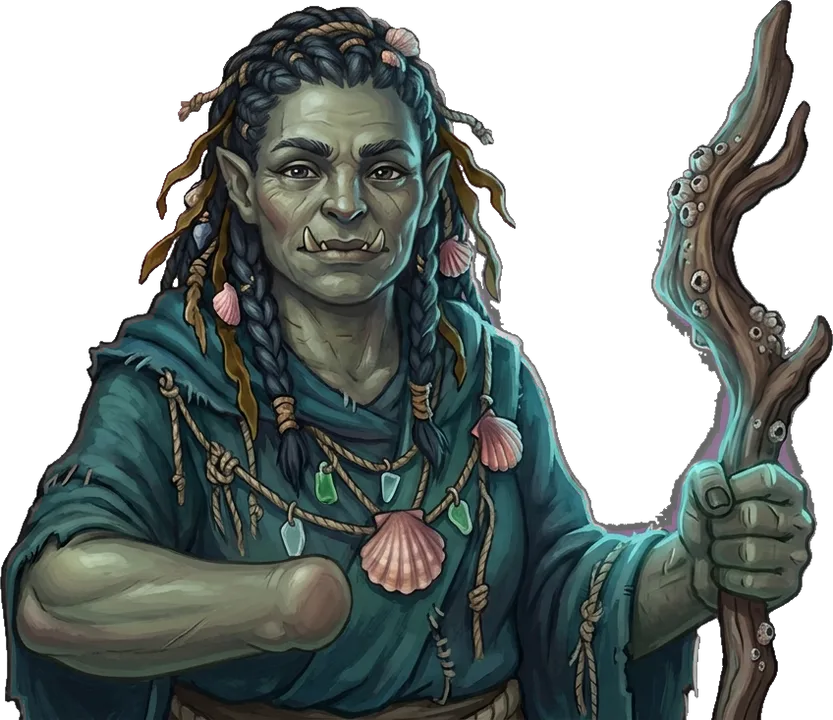
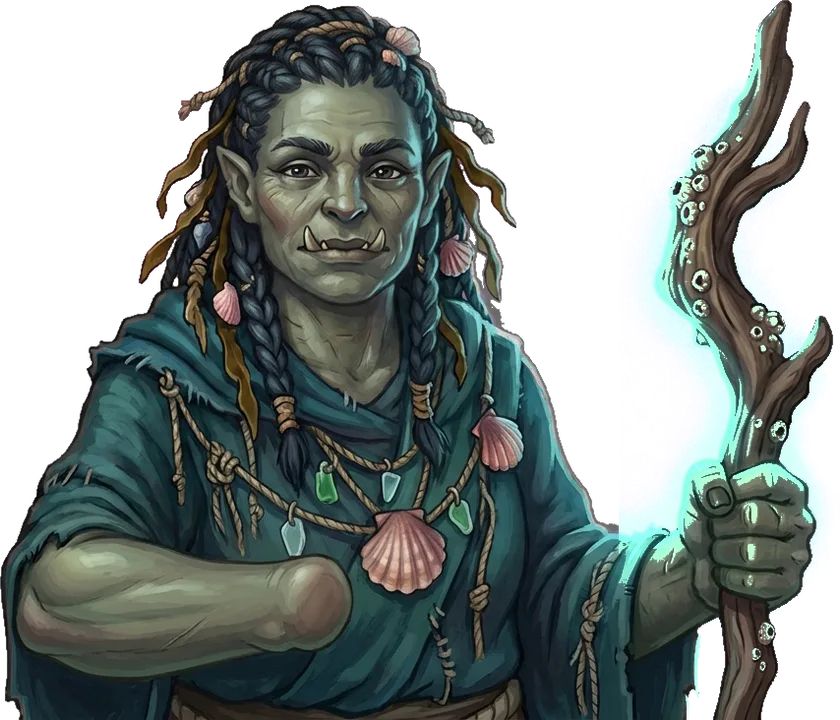
The Salty Swallow: Johnny ashore, every ability counted, Jaguar's choice, Yvesil re-cut
Johnny Elf Bar is no longer a spot aboard. The nameplate's marks count every
ability: the Hangman 2, Jaguar 4 (Smooth Talk twice, the Cloak, All In). Smooth
Talk takes a Healing only when Jaguar is hurt; with only Healing on the shelf
and his hearts full he takes 3 off your hand instead. Yvesil's staff glow is
cut soft and see-through, and on phones she stands bigger with her speech
bubble above her head. Tests for each.

diff --git a/server.js b/server.js
@@ -448,7 +448,7 @@ const PLACES = {
     saltySwallow: {
         name: 'The Salty Swallow',
         thomStock: ['healing', 'lastGasp', 'fizzy', 'secondThoughts', 'steady', 'clearEye'],
-        spots: ['thom', 'shrine', 'elfKid', 'jorvash', 'yvesil'], // (Thom stows away, 6 Nov)
+        spots: ['thom', 'shrine', 'jorvash', 'yvesil'], // (Thom stows away, 6 Nov; Johnny Elf Bar stays ashore, 9 Nov)
         events: []
     }
 };
@@ -675,7 +675,9 @@ function getTavernRunState(room) {
         tubSurge: room.tavernRun.tubSurge ? { id: room.tavernRun.tubSurge, die: HOT_TUB_DIE, ...HOT_TUB_SURGES[room.tavernRun.tubSurge] } : null,
         nextSurge: room.tavernRun.nextFightSurge || null,
         abilityUsed: room.tavernRun.abilityUsed,
-        abilityMax: seated.ability ? BALANCE.abilityUses[seated.ability] : 0, // uses a fight (the seated opponent's)
+        // Uses a fight of every ability the seated opponent has, and how many are spent (the ✦ on
+        // the nameplate; 9 Nov, the user's: the Hangman's Ace and Jaguar's Cloak and All In count too).
+        ...abilityMarks(room, seated),
         jaguarPhase: room.tavernRun.jaguarPhase || null, // Jaguar's: 'talk', 'cloak' or 'allIn'
         klargHand: room.tavernRun.klargHand || null, // the die Klarg snatched, waiting for his turn
         clearEye: !!room.tavernRun.clearEyeArmed, // a Clear-Eye is waiting for the next ability
@@ -1430,6 +1432,23 @@ function emitKeepsakeActivated(roomCode, room, keepsakeId, text) {
     });
 }
 
+function abilityMarks(room, seated) {
+    let run = room.tavernRun;
+    let max = 0, spent = 0;
+    for (let a of abilitiesOf(seated)) {
+        let uses = BALANCE.abilityUses[a] || 0;
+        max += uses;
+        spent += Math.min(uses, getAbilityUseCount(room, a));
+    }
+    // Jaguar's Cloak and All In: one each, spent as his phase reaches them.
+    if (seated.ability === 'jaguarPhases') {
+        max += 2;
+        let phase = run.jaguarPhase;
+        spent += (phase === 'cloak' || phase === 'allIn' ? 1 : 0) + (phase === 'allIn' ? 1 : 0);
+    }
+    return { abilityMax: max, abilitySpent: spent };
+}
+
 function getAbilityUseCount(room, abilityId) {
     let used = room.tavernRun.abilityUsed[abilityId];
     if (used === true) return 1;
@@ -1877,10 +1896,15 @@ function beginJaguarRound(roomCode, room, encounter) {
     }
     if (!fireTavernAbility(roomCode, room, encounter, 'jaguarPhases')) return;
     let shelf = run.shelf;
-    let id = (bot.lives < encounter.lives && shelf.includes('healing') && 'healing') || (shelf.includes('steady') && 'steady') || shelf.find(t => !THONICS[t].elf); // (not an Elf Bar)
+    // (9 Nov, the user's) Down on hearts, he takes a Healing first; with none, or at full hearts,
+    // whatever else is there (a Steady first). Healing alone on your shelf and his hearts full: he
+    // leaves it, and talks 3 off your hand instead. Never an Elf Bar.
+    let hurt = bot.lives < encounter.lives;
+    let id = (hurt && shelf.includes('healing') && 'healing') || (shelf.includes('steady') && 'steady') || shelf.find(t => !THONICS[t].elf && t !== 'healing');
     if (!id) {
         run.talkThree = true;
-        sendMoment(roomCode, 'signatureMove', { name: encounter.name, ability: Rules.ABILITY_NAMES.jaguarPhases, text: `Your shelf is empty, so he'll talk ${FINAL_SHIP.talkThreeWhenEmpty ?? 3} off your finished hand this round.` });
+        let why = shelf.some(t => !THONICS[t].elf) ? 'He has no need of your Healing' : 'Your shelf is empty';
+        sendMoment(roomCode, 'signatureMove', { name: encounter.name, ability: Rules.ABILITY_NAMES.jaguarPhases, text: `${why}, so he'll talk ${FINAL_SHIP.talkThreeWhenEmpty ?? 3} off your finished hand this round.` });
         return;
     }
     shelf.splice(shelf.indexOf(id), 1);
@@ -3116,4 +3140,4 @@ function start(port = process.env.PORT || 3000) {
 
 if (require.main === module) start();
 
-module.exports = { start, http, io, rooms, emitState, getRoomState, pickSpots, startInterlude, strangerOffer, BARD_SONGS, REFRESHMENTS, OMENS, ELF_BARS, MYSTERY_FLAVOUR, rollFaceFor, sealSave, openSave, beginTavernRound, resetTavernEncounter, invitation, BOSS_DROPS, TAVERN_ENCOUNTERS, TAVERN_KEEPSAKES };
+module.exports = { start, http, io, rooms, emitState, getRoomState, pickSpots, startInterlude, strangerOffer, BARD_SONGS, REFRESHMENTS, OMENS, ELF_BARS, MYSTERY_FLAVOUR, rollFaceFor, sealSave, openSave, beginTavernRound, resetTavernEncounter, invitation, BOSS_DROPS, TAVERN_ENCOUNTERS, TAVERN_KEEPSAKES, PLACES };

diff --git a/test/server.test.js b/test/server.test.js
@@ -372,6 +372,46 @@ test("Jaguar's Smooth Talk drinks a Thonic off your shelf (his Healing heals him
     assert.equal((await scored).players[hero.id].score, 18);
 });
 
+test("Jaguar's Smooth Talk at full hearts leaves your Healing: another Thonic if there is one, else 3 off your hand", async () => {
+    // Healing and Fizzy, his hearts full: he takes the Fizzy.
+    let hero = await tavernAgainst(fightOf('jaguar'), 'JagFullMixed');
+    let room = roomOf(hero);
+    room.players.BOT_MOLAR.lives = 4;
+    room.tavernRun.shelf = ['healing', 'fizzy'];
+    let talk = waitFor(hero, 'signatureMove', m => m.ability === 'Smooth Talk', 4000);
+    server.beginTavernRound(codeOf(hero), room);
+    assert.match((await talk).text, /Fizzy/);
+    assert.deepEqual(room.tavernRun.shelf, ['healing']);
+    // Only Healing, his hearts full: he leaves them and talks 3 off your hand.
+    hero = await tavernAgainst(fightOf('jaguar'), 'JagFullHealing');
+    room = roomOf(hero);
+    room.players.BOT_MOLAR.lives = 4;
+    room.tavernRun.shelf = ['healing', 'healing'];
+    talk = waitFor(hero, 'signatureMove', m => m.ability === 'Smooth Talk', 4000);
+    server.beginTavernRound(codeOf(hero), room);
+    assert.match((await talk).text, /no need of your Healing/);
+    assert.deepEqual(room.tavernRun.shelf, ['healing', 'healing']);
+    assert.equal(room.tavernRun.talkThree, true);
+});
+
+test('the nameplate counts every ability use: the Hangman two, Jaguar four', async () => {
+    const hangman = await tavernAgainst(fightOf('hangman'), 'MarksHang');
+    roomOf(hangman).players.BOT_MOLAR.name = 'The Hangman'; // (who sits at a fresh test table)
+    let st = server.getRoomState(codeOf(hangman));
+    assert.deepEqual([runOf(st).abilityMax, runOf(st).abilitySpent], [2, 0]);
+    const jaguar = await tavernAgainst(fightOf('jaguar'), 'MarksJag');
+    const room = roomOf(jaguar);
+    room.players.BOT_MOLAR.name = 'Jaguar Cantona';
+    room.players.BOT_MOLAR.lives = 2;
+    room.tavernRun.jaguarPhase = 'cloak';
+    st = server.getRoomState(codeOf(jaguar));
+    assert.deepEqual([runOf(st).abilityMax, runOf(st).abilitySpent], [4, 1]);
+});
+
+test('Johnny Elf Bar stays ashore: not a spot aboard the Salty Swallow', () => {
+    assert.ok(!server.PLACES.saltySwallow.spots.includes('elfKid'));
+});
+
 test("Jaguar's Cloak at two lives: he throws after you, his dice hidden; All In at his last costs two hearts", async () => {
     const cloaked = await tavernAgainst(fightOf('jaguar'), 'JagCloak');
     const croom = roomOf(cloaked);
@@ -2434,11 +2474,11 @@ test('the Cult of Kram: swear fealty and your dice never land on 1 for two fight
 
 // ---- Elf Bars, from Johnny Elf Bar (28 Oct) ----
 
-test('Johnny Elf Bar is a spot in every place; an Elf Bar comes with 3 puffs, one of each kind', async () => {
+test('Johnny Elf Bar is a spot ashore (not aboard the ship); an Elf Bar comes with 3 puffs, one of each kind', async () => {
     const { hero, room } = await betweenFights('Vaper', { stage: 'choose', spots: ['elfKid', 'thom'] }, 100);
-    for (const fight of ['frak', 'vaelin', 'rokr']) {
+    for (const [fight, there] of [['frak', true], ['vaelin', true], ['rokr', false]]) {
         room.tavernRun.encounterIndex = fightOf(fight);
-        assert.ok(Array.from({ length: 80 }, () => server.pickSpots(room)).some(s => s.includes('elfKid')), fight);
+        assert.equal(Array.from({ length: 80 }, () => server.pickSpots(room)).some(s => s.includes('elfKid')), there, fight);
     }
     room.tavernRun.encounterIndex = fightOf('frak');
     hero.emit('chooseSpot', 'elfKid');

diff --git a/client/src/styles.css b/client/src/styles.css
@@ -2490,7 +2490,16 @@ button.keepsake.used { opacity: 0.55; }
 .spot-scene.jorvash { --glow: rgba(255, 200, 130, 0.42); }
 /* Their paintings are wide, the whole figure in it (the user's, 9 Nov): on an upright phone each stands whole behind the counter, sized by the screen's width, so Yvesil's staff and arm show. */
 @media (orientation: portrait) {
-    .spot-scene.yvesil .thom-figure { top: auto; bottom: -3%; height: min(92%, 560px, 84vw); }
+    /* (Yvesil bigger, 9 Nov, the user's: her far arm runs off the left, her face and staff stay in.) */
+    .spot-scene.yvesil .thom-figure { top: auto; bottom: -3%; height: min(92%, 560px, 102vw); margin-left: -6vw; }
+    /* Her bubble just above her head, its tail on her (9 Nov, the user's): from her figure's own size
+       (height H, as above; 840 by 720) and where her head is in it (42% across, its top 5% down). */
+    .spot-scene.yvesil .thom-speech {
+        top: auto; right: auto;
+        left: max(12px, calc(50% - 6vw + (0.42 - 0.5) * 1.1667 * min(102vw, 560px) - 14px));
+        bottom: calc(-3% + min(92%, 560px, 102vw) * 0.95 + 10px);
+        max-width: calc(100% - max(12px, calc(50% - 6vw + (0.42 - 0.5) * 1.1667 * min(102vw, 560px) - 14px)) - 12px);
+    }
     .spot-scene.jorvash .thom-figure { top: auto; bottom: -3%; height: min(92%, 560px, 98vw); }
 }
 .smite-veil { box-shadow: inset 0 0 80px 22px rgba(255, 213, 79, 0.6), inset 0 0 160px 40px rgba(255, 160, 0, 0.25); animation: smite-glow 1.6s ease-in-out infinite; }

diff --git a/client/src/Hud.tsx b/client/src/Hud.tsx
@@ -528,11 +528,12 @@ function AbilityMarks({ state }: { state: GameState }) {
     const max = run.abilityMax ?? 0;
     if (!ability || !max) return null;
     const raw = run.abilityUsed?.[ability];
-    const used = Math.min(max, raw === true ? 1 : Number(raw || 0));
+    const used = Math.min(max, run.abilitySpent ?? (raw === true ? 1 : Number(raw || 0)));
     const name = Rules.ABILITY_NAMES[ability as keyof typeof Rules.ABILITY_NAMES] ?? ability;
+    const several = (run.seated ?? run.enemy).powers?.length ?? 1;
+    const label = several > 1 ? `Abilities: ${max - used} of ${max} uses left this fight` : `${name}: ${max - used} of ${max} left this fight`;
     return (
-        <span key={used} className={`ability-marks ${used > 0 ? 'spent-now' : ''}`}
-            title={`${name}: ${max - used} of ${max} left this fight`} aria-label={`${name}: ${max - used} of ${max} left`}>
+        <span key={used} className={`ability-marks ${used > 0 ? 'spent-now' : ''}`} title={label} aria-label={label}>
             {Array.from({ length: max }, (_, i) => <span key={i} className={i < max - used ? 'left' : 'used'}>✦</span>)}
         </span>
     );

diff --git a/client/src/game.ts b/client/src/game.ts
@@ -75,7 +75,8 @@ export interface TavernRun {
     clearEye?: boolean; // a Clear-Eye Thonic is waiting to cancel the opponent's next ability
     abilityUsed?: Record<string, number | boolean>; // uses of each ability this fight
     encounterKeepsakeUses?: Record<string, boolean>; // keepsakes that have worked this fight
-    abilityMax?: number; // the opponent's uses a fight
+    abilityMax?: number; // the opponent's uses a fight, every ability of theirs
+    abilitySpent?: number; // how many of them are spent
     jaguarPhase?: 'talk' | 'cloak' | 'allIn' | null; // Jaguar's phase this round
     klargHand?: number | null; // the die Klarg snatched, shown on his nameplate until his turn
     abilityLeft?: boolean; // the opponent's ability has uses left this fight

diff --git a/client/src/portraits.ts b/client/src/portraits.ts
@@ -95,7 +95,7 @@ export const SPOT_PORTRAITS: Record<'thom' | 'shrine' | 'diceDen' | 'stranger' |
     elfKid: seated('elf-kid.webp', [50, 27], 1.25, 477, 720),
     // The user's paintings (9 Nov; the faces' middles first guesses, for the Portraits tab to settle).
     jorvash: seated('jorvash.webp', [46, 20], 1.6, 703, 708),
-    yvesil: seated('yvesil.webp', [42, 21], 1.7, 833, 720)
+    yvesil: seated('yvesil.webp', [42, 21], 1.7, 840, 720)
 };
 
 // What a player picks on the start screen: since 30 Oct seven of the game's painted item icons

diff --git a/CLAUDE.md b/CLAUDE.md
@@ -452,7 +452,7 @@ https://claude.ai/code/artifact/62ce683b-44ba-43a1-b71b-9dbe3b33d094
   `.disguise-swap`; the dev control `/disguise?as=Danhausen` sets one). Since 26 Oct each place
   has its backdrop (the user's paintings; `SCENES` in Backdrop.tsx by opponent, `placeBackdrop` for the
   scenes between fights, `sceneFileOf` for a fight's summary): the Yawning Portal's hall with its
-  glowing well, the Salty Swallow's gun deck; the ship has Thom, the Shrine, Johnny Elf Bar, Jorvash and Yvesil and no events of its
+  glowing well, the Salty Swallow's gun deck; the ship has Thom, the Shrine, Jorvash and Yvesil (Johnny Elf Bar stays ashore since 9 Nov, the user's) and no events of its
   own (to workshop). Vaelin Inkhand is the Vaelin avatar (new art). Your hearts reset each fight (20 Oct): 3 everywhere since 5 Nov, the user's (`fightHearts` is empty now, it gave the Ghoul and Gourd's first four 2 from 3 Nov; the Lady's Favour +1, the Stranger and Pruney
   Fingers -1, counted from it: `heartsFor`/`nextHearts` in server.js); the opponents have 1, 2, 3, 3, 3 (since 5 Nov,
   the user's: McGrath 1, Frak 2, the rest 3) | 3, 3, 3, 3, 4 | 3, 3, 3, 4 lives (`shared/balance.js`,
@@ -526,7 +526,7 @@ https://claude.ai/code/artifact/62ce683b-44ba-43a1-b71b-9dbe3b33d094
   smouldering edges with rising embers, Rokr's blur twinkling stars, Klarg claw marks, Jaguar a
   gold sweep, the Hangman a gun-metal banner. The opponent's nameplate/chip
   shows one ✦ per use a fight (`AbilityMarks`, `abilityMax`), dark once spent, flaring after
-  the banner.
+  the banner. Since 9 Nov (the user's) it counts every ability they have (`abilityMarks` in server.js, `abilitySpent`): the Hangman 2 (Penitent Stare, the Ace), Jaguar 4 (Smooth Talk twice, the Cloak, All In; those two spent as his phase reaches them).
 - **The Salty Swallow as the final tier (25 Oct, the user's yes; set by simulation,
   `balance/experiments/final-ship.js`; settings in `shared/balance.js` `finalShip` and `abilityUses`):**
   each goes after a different part of your game. A sensible player, fresh, wins Klarg 27%, Rokr 26%,
@@ -542,11 +542,12 @@ https://claude.ai/code/artifact/62ce683b-44ba-43a1-b71b-9dbe3b33d094
     a hand that counts he shoots your best scoring die and it rolls again (`deadEyeRerolls`; turnState
     event `shot`); his **Ace of Spades** stays, for his last life. Clear-Eye counts all his abilities
     (`encounterAbilityLeft`).
-  - **Yvesil and Jorvash (6 Nov, the user's; spots on the ship; prices and chances first guesses in `interlude`; the user's busts since 9 Nov, `bust-yvesil.jpg` and `bust-jorvash.jpg`, `SPOT_PORTRAITS`; the omens' and refreshments' icons too, `art/keepsake-<id>.jpg`, with `holes` for their trapped magenta):** Yvesil the oracle (`yvesilPick`, `yvesilPrice` 8, rising, `omenGoodChance` 67%): an omen for the next fight, `OMENS`: Fair Winds and The Albatross (your 1s, or 6s, roll again on your first throw of each round, in `rollFaceFor`), Following Sea (your first dust scores as it lies), The Black Spot (hands score 1 less). Jorvash the manservant (`jorvashPick`, `jorvashPrice` 8, rising), one of two for the next fight, `REFRESHMENTS`: Notaro Red (your first hand that counts scores 2 more, at most 24) or Water of the Ebon Shield (one extra heart). Both show on your strip. **Thom has stowed away:** aboard, his line is one of three, drawn per fight (`THOM_SHIP_LINES`). So the ship's spots are Thom, the Shrine, Johnny, Jorvash and Yvesil.
+  - **Yvesil and Jorvash (6 Nov, the user's; spots on the ship; prices and chances first guesses in `interlude`; the user's busts since 9 Nov, `bust-yvesil.jpg` and `bust-jorvash.jpg`, `SPOT_PORTRAITS`; the omens' and refreshments' icons too, `art/keepsake-<id>.jpg`, with `holes` for their trapped magenta):** Yvesil the oracle (`yvesilPick`, `yvesilPrice` 8, rising, `omenGoodChance` 67%): an omen for the next fight, `OMENS`: Fair Winds and The Albatross (your 1s, or 6s, roll again on your first throw of each round, in `rollFaceFor`), Following Sea (your first dust scores as it lies), The Black Spot (hands score 1 less). Jorvash the manservant (`jorvashPick`, `jorvashPrice` 8, rising), one of two for the next fight, `REFRESHMENTS`: Notaro Red (your first hand that counts scores 2 more, at most 24) or Water of the Ebon Shield (one extra heart). Both show on your strip. **Thom has stowed away:** aboard, his line is one of three, drawn per fight (`THOM_SHIP_LINES`). So the ship's spots are Thom, the Shrine, Jorvash and Yvesil (Johnny stays ashore, 9 Nov). Yvesil's staff glow is cut soft and see-through (`glow` with `colour: 'cyan'` in process-art.mjs: only a glow with plenty of blue, so her green hand stays as painted), and on an upright phone she stands bigger, her far arm running off the left, her speech bubble just above her head (9 Nov).
   - **Jaguar** (`jaguarPhases`, `beginJaguarRound`, `run.jaguarPhase` in the state): **Smooth Talk** (3+
     lives; twice a fight, once a round) talks a Thonic off your shelf and drinks it (Healing heals him,
     Steady counts his dust as it lies, `jaguarSteady`); an empty shelf: 3 off your finished hand
-    (`talkThree`). **The Cloak** (2 lives): he throws after you, his dice hidden (`turn.cloaked`, viewTurn).
+    (`talkThree`). Since 9 Nov (the user's) he takes a Healing only when he's down on hearts, else any other Thonic
+    (Steady first); with only Healing on your shelf and his hearts full he leaves it and talks 3 off your hand. **The Cloak** (2 lives): he throws after you, his dice hidden (`turn.cloaked`, viewTurn).
     **All In** (his last): the round's loser loses two hearts. Each phase has its banner and badge.
   - Tests pin the dice with `pinFaces` (server.test.js). Starry Form is the old Constellation Blur code brought back (6 Nov); Written in the Stars' and Dead Eye's code is dormant.
 - **Ability paintings (26 Oct, the user's):** an ability with a painting is a scene of its own: a
@@ -797,7 +798,7 @@ https://claude.ai/code/artifact/62ce683b-44ba-43a1-b71b-9dbe3b33d094
   at `/` walks straight on (its `leaveShop`), so it never sees the spots; the user is fine
   with that until the switch-over.
 - **Elf Bars (28 Oct, the user's; no side effects, the user's call):** magic vapes sold by
-  **Johnny Elf Bar**, one of Frak's street urchins, a spot in every place (`elfKid`, painting
+  **Johnny Elf Bar**, one of Frak's street urchins, a spot at the Ghoul and Gourd and the Yawning Portal (not the ship, since 9 Nov) (`elfKid`, painting
   `art/bust-elf-kid.jpg`; offered when the purse covers the cheapest). They sit on the Thonic
   shelf (`THONICS` entries with `elf: true`) with `elfBarPuffs` (3) puffs each, at most one
   puff a fight (`run.puffs`, `run.puffed` reset at a fight's start; saved with the run); the last
